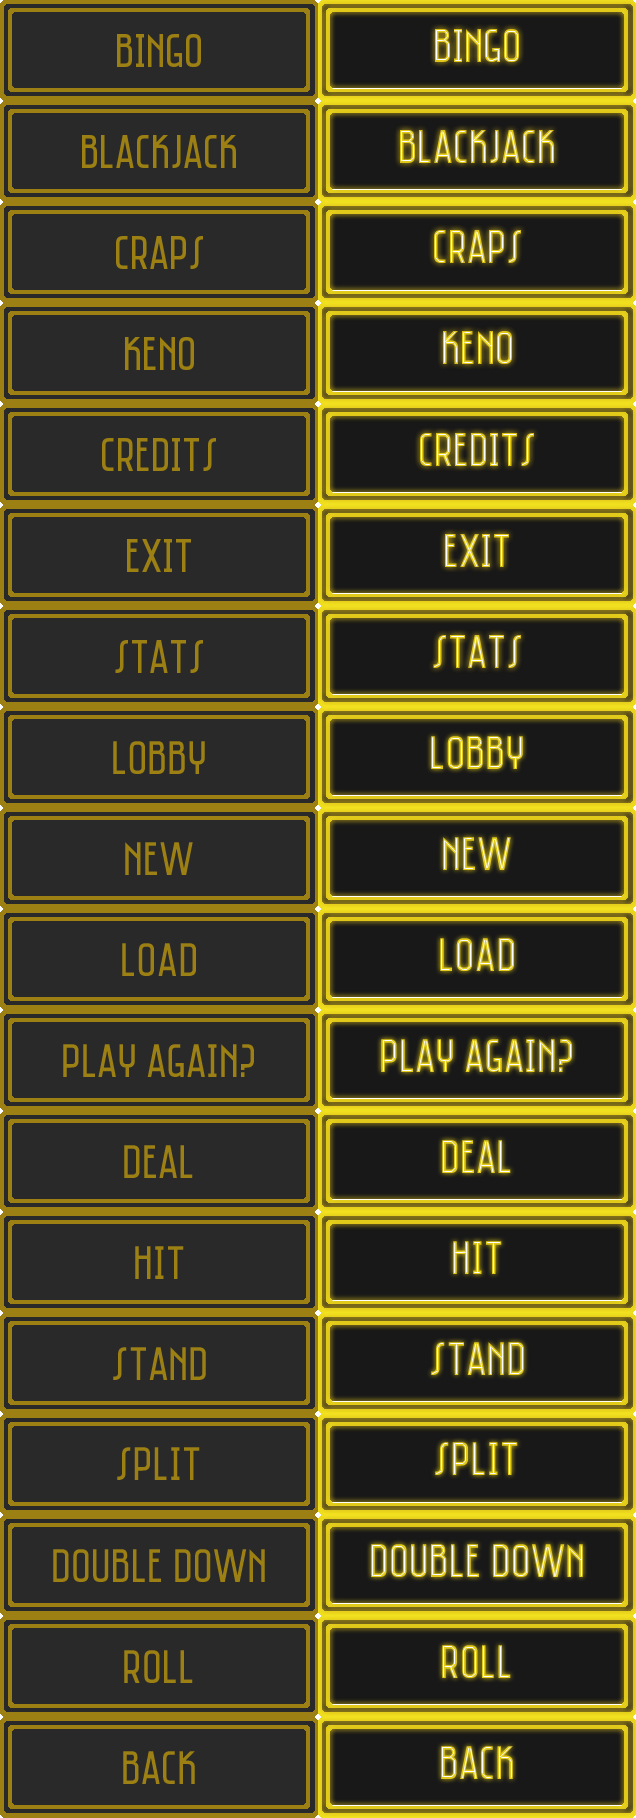
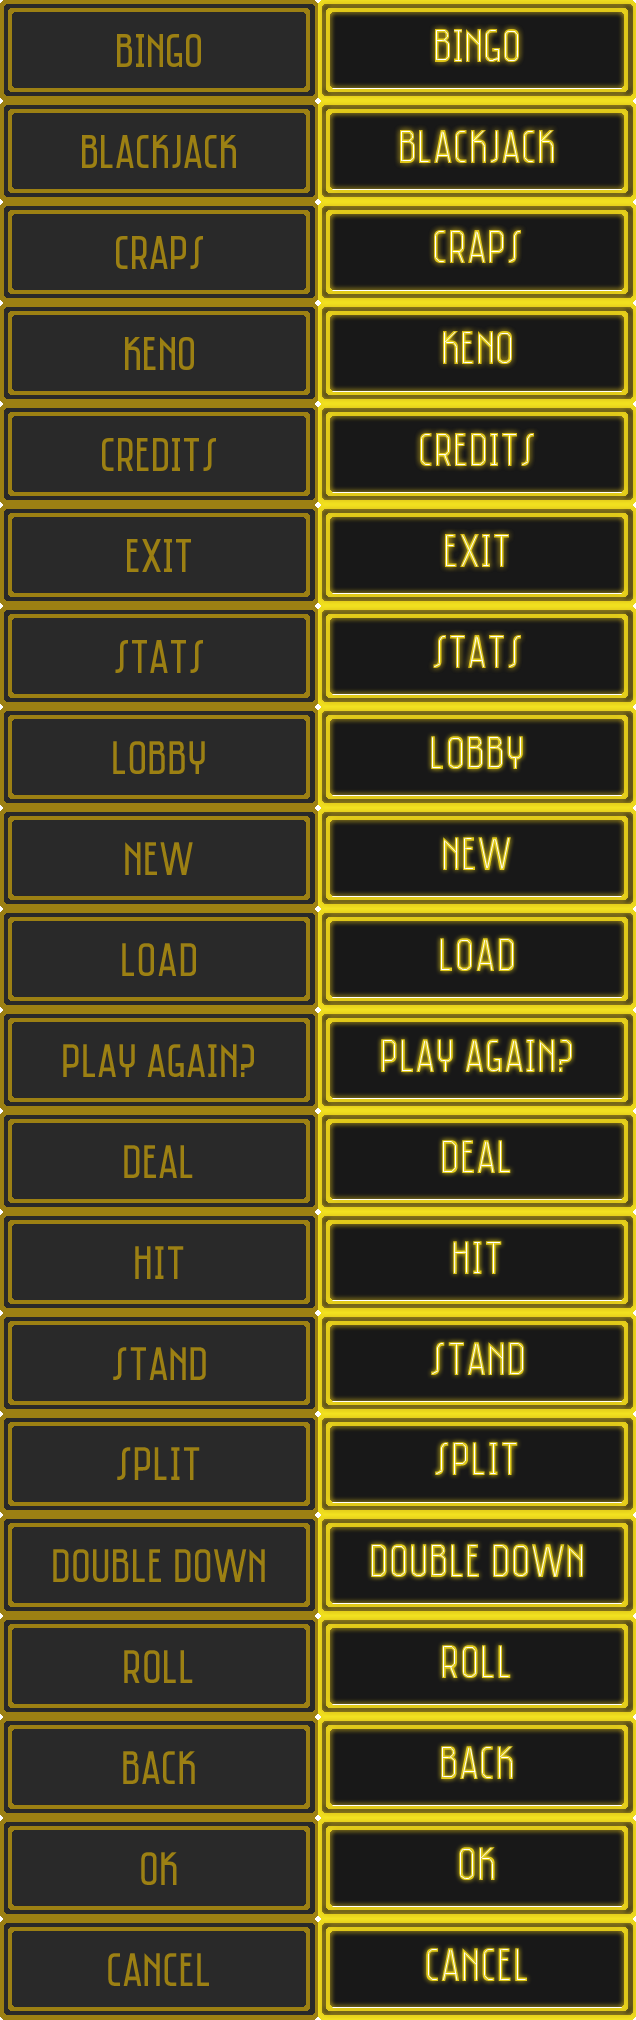
Buttons sheet: OK and Cancel added

diff --git a/data/prepare.py b/data/prepare.py
@@ -67,7 +67,7 @@ def _get_graphics_and_cards():
     b_sheet = gfx["button_sheet"]
     b_texts = ["Bingo", "Blackjack", "Craps", "Keno", "Credits", "Exit",
                "Stats", "Lobby", "New", "Load", "Again", "Deal", "Hit",
-               "Stand", "Split", "Double", "Roll", "Back"]
+               "Stand", "Split", "Double", "Roll", "Back", "OK", "Cancel"]
     b_top = 0
     for text in b_texts:
         off_rect = pg.Rect(0, b_top, b_width, b_height)
